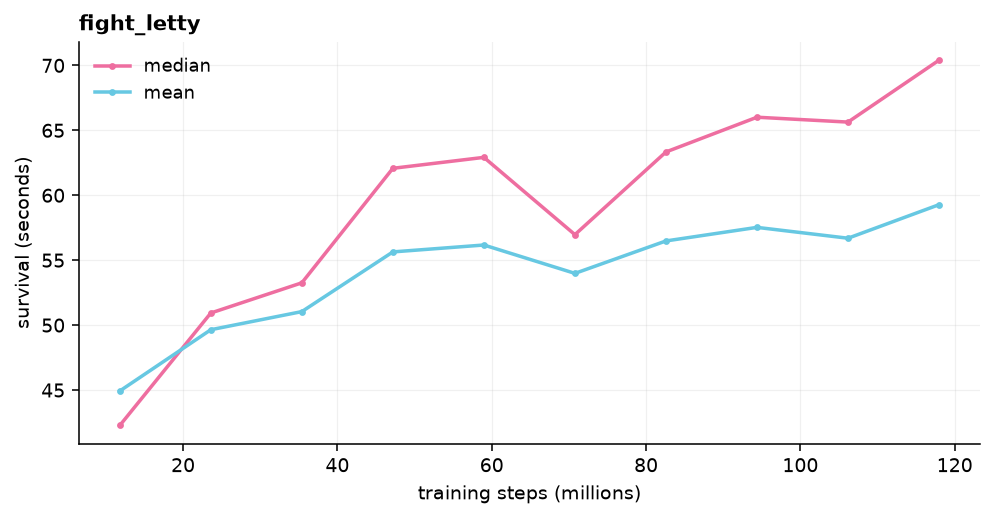
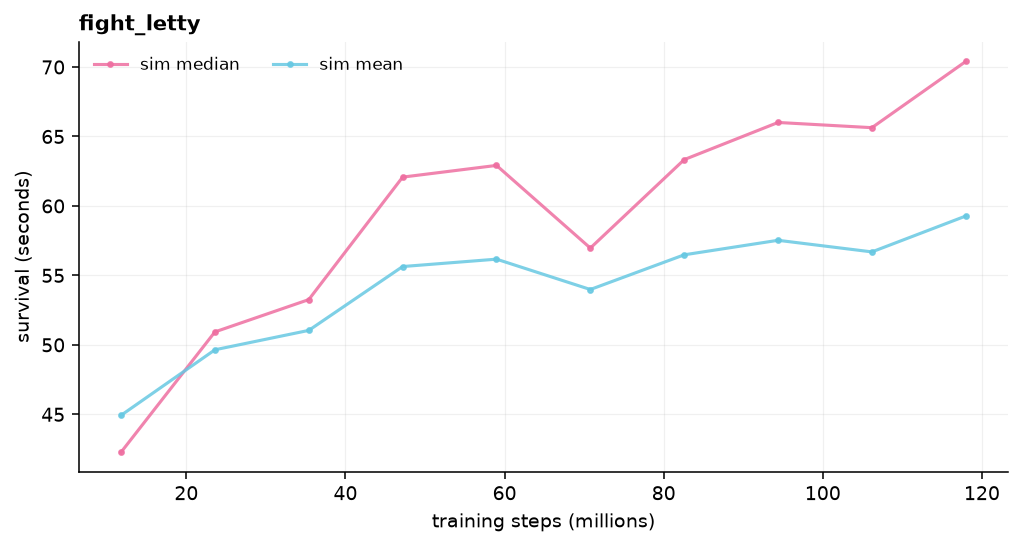
docs: experiment log - real transfer, not sim score; the PPO arc
Was plotting/quoting the sim survival (deliberately brutal, ~20-40s) as if it
were the real number. Each run has realtransfer.npy - the actual game survival
during training. Corrected:
  ppo_v27  ~223s real median   (works)
  ppo_v28  ~18s real median    (obs-norm killed it)
  ppo_v29  ~231s real median   (wash vs v27)
So v29 is not "dies at S1 boss" - that was best.pt, the overfit checkpoint.
Every domain-randomized run plateaus ~"into Stage 2".

- plot_run.py overlays realtransfer.npy (scatter + binned median) on the sim
  curves - the gap between them is the point
- experiment-log.md: added "The PPO arc" narrative (v12 -> v29, what each
  changed and what we realised), corrected the tables
- dead-ends.md / index.md: softened the "base regression" to match

Claude-Session: https://claude.ai/code/session_01HvK66xWtekmqmw4fENNeN8

diff --git a/tools/plot_run.py b/tools/plot_run.py
@@ -53,16 +53,32 @@ def main():
     import matplotlib.pyplot as plt
 
     x = h[:, sch["x"]] / 1e6
-    fig, ax = plt.subplots(figsize=(7.2, 3.8), dpi=140)
+    fig, ax = plt.subplots(figsize=(7.4, 4.0), dpi=140)
     colors = ["#ee6ea0", "#67c8e2", "#8b94a1"]
     for i, (col, lbl) in enumerate(sch["series"]):
-        ax.plot(x, h[:, col], color=colors[i % len(colors)], lw=1.8,
-                label=lbl, marker="o", ms=2.5)
+        ax.plot(x, h[:, col], color=colors[i % len(colors)], lw=1.6, alpha=.85,
+                label=f"sim {lbl}", marker="o", ms=2.5)
+
+    # real-game transfer, if it was logged: [wall, step, survival_s, score, flag]
+    rt_path = run / "realtransfer.npy"
+    if rt_path.exists():
+        rt = np.load(rt_path)
+        rs, rv = rt[:, 1] / 1e6, rt[:, 2]
+        ax.scatter(rs, rv, s=9, color="#c9a227", alpha=.35, lw=0,
+                   label="real (each eval)", zorder=2)
+        # binned median
+        edges = np.linspace(rs.min(), rs.max(), 12)
+        mids = 0.5 * (edges[:-1] + edges[1:])
+        med = [np.median(rv[(rs >= a) & (rs < b)]) if ((rs >= a) & (rs < b)).any()
+               else np.nan for a, b in zip(edges[:-1], edges[1:])]
+        ax.plot(mids, med, color="#c9a227", lw=2.2, marker="s", ms=3.5,
+                label="real (binned median)", zorder=3)
+
     ax.set_xlabel("training steps (millions)")
     ax.set_ylabel("survival (seconds)")
     ax.set_title(name, loc="left", fontsize=11, fontweight="bold")
     ax.grid(True, alpha=.18, lw=.6)
-    ax.legend(frameon=False, fontsize=9)
+    ax.legend(frameon=False, fontsize=8.5, ncol=2)
     ax.spines[["top", "right"]].set_visible(False)
     fig.tight_layout()
 

diff --git a/docs/experiment-log.md b/docs/experiment-log.md
@@ -3,56 +3,123 @@
 The dated, quantitative companion to [Dead ends & lessons](dead-ends.md). Every
 training run: what changed, what the sim curve did, what transferred, verdict.
 
+!!! warning "Sim score is not real transfer"
+    The procedural sim is deliberately brutal (domain randomization), so its
+    survival numbers run ~20–40 s while the *same policy* survives ~200–300 s on
+    the real game. Always read the **real** line, not the sim line. `ppo_v26` got
+    *worse* on the real game while its sim median rose.
+
 !!! note "How this is kept"
     After a run, `python tools/plot_run.py runs_sim/<name>` writes the curve to
-    `docs/assets/curves/<name>.png` and copies `history.npy` to `runs_meta/`
-    (so the plot is reproducible from the repo — `.pt` weights stay out of git).
-    Then add a row below. The *what changed* and *verdict* columns are written
-    by hand.
+    `docs/assets/curves/<name>.png` (sim series + the `realtransfer.npy` overlay)
+    and copies `history.npy` to `runs_meta/`. `.pt` weights stay out of git.
+    The *what changed* / *verdict* columns are written by hand.
 
 ## Current best
 
 | Metric | Value | From |
 |---|---|---|
-| Real playthrough | `~470 s, stages 1–3` | `ppo_v12` (retired 212-d obs) |
-| Real Letty, dodge-only | `6/6 clears` | procedural-sim baseline (`snap_0092M`) |
-| Real Letty, dodge-only | `3/6 clears` | `fight_letty` (recorded) |
-| Current-obs general policy | `dies at S1 boss` | best of v27 / v29 |
+| Real playthrough (peak) | **~470 s**, stages 1–3 | `ppo_v12` — retired 212-d obs |
+| Real transfer, current obs | **~225 s** median (stages 1–2) | `ppo_v27` / `ppo_v29` |
+| Recorded-boss transfer | 150–190 s on real Letty | `fight_letty` (but baseline clears Letty 6/6) |
 
-The headline number (`ppo_v12`) has not been reproduced on the current 236-d
-observation. See [the base-policy regression](dead-ends.md#the-base-policy-regression-open).
+The current 236-d observation has **not** reproduced `ppo_v12`'s reach. Every
+domain-randomized run plateaus around "clears stage 1, dies in stage 2."
+
+## The PPO arc
+
+Read top-to-bottom.
+
+### v12 and the 212-d era — peak
+
+`ppo_v12` reached **~470 s real, stages 1–3** at ~200 M steps on a 212-d
+observation. `ppo_v22` (an early re-run) hit **~368 s at only 82 M steps**. This
+is the bar everything since has failed to clear. The 212-d obs was later widened
+to 236-d (new enemy/item blocks, focus-aware escape) and `ppo_v12` no longer
+loads against the current code.
+
+### v23–v25 — trying to teach shooting, the policy games it
+
+Added a front-only shot model, aimed enemy bursts, and a top-down "spam phase"
+to push the agent to engage enemies. Over 1000 M steps `ppo_v25` **regressed to
+~159 s**. The kill and power rewards were too weak relative to the survival
+bonus, so the optimal policy was to *stop shooting and just dodge* — which is
+fine in the sim and useless for a real run where you need power.
+
+> **Realisation.** You cannot bolt "shoot enemies" onto a survival objective with
+> a small reward term. The agent will find the survive-only local optimum.
+
+### v26 — stronger engagement rewards, overfits
+
+Cranked the enemy-damage reward (`0.10 → 0.35`), item reward (`0.30 → 0.60`),
+added a power-standing bonus, widened the enemy hit radius, capped episodes at
+240 s, split the death signal by cause. On a **fixed** sim stage it learned to
+engage — and transfer got *worse* as the sim score climbed. `best.pt`, ranked by
+sim score, was the most overfit checkpoint in the run.
+
+> **Realisation.** A fixed sim stage is a memorisation target. Rank checkpoints
+> by transfer tests, not sim score.
+
+### v27 — domain-randomization rewrite, recovers
+
+Threw out the hand-tuned stage. Patterns are now procedurally generated per
+episode with heavy randomization of density, speed, aim, and emitter layout.
+Real transfer came back to **~223 s median** (41–505 s range). The last
+current-obs run that clearly worked.
+
+### v28 — observation normalization, catastrophic
+
+Standardized each obs feature to zero-mean/unit-variance using sim statistics.
+Features that are constant in the sim (empty item slots, walls) got divided by a
+near-zero std, folding their weights up ~`1e4×`. On real obs the network
+exploded. Real transfer **collapsed to 18 s median** (13–42 s) despite a
+perfectly healthy sim curve. Reverted (`65a4d78`).
+
+### v29 — v27 plus a batch of refinements, marginal
+
+v27 randomization + AABB collision (was circular) + a bottom-camp penalty +
+focus-aware escape scalars + reward normalization + LR annealing, **no** obs
+normalization. Real transfer **~231 s median** (68–645 s), flat after ~100 M
+steps. Basically a wash versus v27 — the plateau is the sim's, not the run's.
+Snapshots saved every 40 M for transfer-testing (`snap_*.pt`); `best.pt` still
+underperforms mid-training snapshots, per the v26 lesson.
 
 ## Runs
 
-Reverse-chronological. "sim" = greedy median survival at the end of training;
-"real" = survival on the actual game.
-
-| Run | Date | What changed | Sim | Real | Verdict |
-|---|---|---|---|---|---|
-| `fight_letty` | 2026-08-31 | recorded-Letty FightSim + re-aiming + per-bullet hitboxes + lethal enemy bodies; from scratch | 70 s median (capped view) | 150–190 s on real Letty, but the plain baseline clears it 6/6 | **inconclusive** — Letty is too easy to show a benefit |
-| `ppo_v29` | 2026-08-30 | v27 randomization + AABB collision + bottom-camp penalty + focus-aware escape + reward-norm + LR anneal; **no** obs-norm | ~35 s median | dies at S1 boss (normal play) | regressed vs v12; snapshots every 40 M for transfer-testing |
-| `ppo_v28` | 2026-08-29 | added obs normalization | healthy curve | **15–40 s** real | **killed** — sim-constant features got `1e4×` weights ([why](dead-ends.md#observation-normalization-v28-abandoned)) |
-| `ppo_v27` | 2026-08-28 | domain-randomization rewrite | ~39 s median | 200–500 s real (per notes) | transferred well; the last current-obs run that did |
-| `ppo_v26` | — | fixed sim stage, stronger enemy/item rewards | rising | got **worse** as sim rose | overfit — `best.pt` is the most overfit checkpoint |
-| `ppo_v25` | — | front-only shot + aimed enemy bursts + top-down spam phase, 1000 M steps | high | **159 s** real (down from 470) | regressed — reward changes made it stop engaging |
-| `ppo_v22` | — | (212-d era) | 88 s median | **368 s real**, stages 1–3, at only 82 M steps | strong; preserved |
-| `ppo_v12` | — | (212-d era) | — | **470 s real**, stages 1–3 | best real result to date; obs since retired |
-
-### fight_letty
-
-![fight_letty survival curve](assets/curves/fight_letty.png)
-
-Climbed the whole run (42 → 70 s median), never plateaued. The in-sim eval is
-capped at 83 s so full clears are invisible here — the real signal is
-`eval_boss.py`.
+| Run | Date | What changed | Real transfer | Verdict |
+|---|---|---|---|---|
+| `fight_letty` | 2026-08-31 | recorded-Letty FightSim + re-aiming + real hitboxes + lethal enemy bodies; from scratch | 150–190 s on real Letty | inconclusive — Letty too easy (baseline 6/6) |
+| `ppo_v29` | 2026-08-30 | v27 + AABB collision + focus-aware escape + reward-norm + LR anneal | ~231 s median | wash vs v27 |
+| `ppo_v28` | 2026-08-29 | + obs normalization | ~18 s median | **killed** |
+| `ppo_v27` | 2026-08-28 | domain-randomization rewrite | ~223 s median | works; the current baseline |
+| `ppo_v26` | — | stronger enemy/item rewards, fixed sim stage | worse as sim rose | overfit |
+| `ppo_v25` | — | front-only shot + aimed bursts + spam phase, 1000 M | ~159 s | regressed — stopped engaging |
+| `ppo_v22` | — | early 236-d re-run | ~368 s, 82 M steps | strong; preserved |
+| `ppo_v12` | — | 212-d era | **~470 s**, stages 1–3 | best to date; obs retired |
 
 ### ppo_v27
 
 ![ppo_v27 survival curve](assets/curves/ppo_v27.png)
 
+### ppo_v28 — obs normalization
+
+![ppo_v28 survival curve](assets/curves/ppo_v28.png)
+
+The sim curve is fine; real transfer sits at the floor the whole run.
+
 ### ppo_v29
 
 ![ppo_v29 survival curve](assets/curves/ppo_v29.png)
+
+The gap between the sim lines (~20–35 s) and the real line (~230 s) is the whole
+point of this chapter.
+
+### fight_letty
+
+![fight_letty survival curve](assets/curves/fight_letty.png)
+
+No `realtransfer.npy` for this run — the real number is one `eval_boss.py` pass:
+150–190 s on real Letty, 3/6 full clears.
 
 ## Sim throughput
 

diff --git a/docs/dead-ends.md b/docs/dead-ends.md
@@ -66,13 +66,19 @@ there was nothing left to fine-tune.
 
 ## The base-policy regression — *open*
 
-The strong result in the record — `ppo_v12`, ~470 s, stages 1–3 — is on a 212-d
-observation that no longer exists. Every current-obs run (v27, v29) dies at the
-Stage 1 boss in normal play, and pure-dodge dies in the Stage 1 *stage portion*
-at 33 s. The recorder / FightSim / re-aim work this session sits on a foundation
-that is below where the project was months ago.
+`ppo_v12` reached ~470 s (stages 1–3) on a 212-d observation that no longer
+exists. The current 236-d runs (v27, v29) transfer to **~225 s median** — they
+clear Stage 1 and die somewhere in Stage 2. A regression from v12, though not
+the "dies at Stage 1 boss" I first reported (that was `best.pt`, which the
+[v26 lesson](#v26-stronger-engagement-rewards-overfits) says is the wrong
+checkpoint to pick).
 
-> **Lesson (provisional).** The sim teaches boss-dodging. A 1cc also needs
-> stage-portion enemy management and boss damage-routing, and recording bosses
-> fixes neither. The likely path: record bosses for dodging *and* add synthetic
-> HP phasing so the policy learns to shoot.
+Every domain-randomized run plateaus at roughly the same place. Pure-dodge, with
+no shooting at all, dies in the Stage 1 *stage portion* at ~33 s — the
+procedural sim never taught enemy management.
+
+> **Lesson (provisional).** The sim teaches boss-dodging and tops out around
+> "into Stage 2." A 1cc also needs stage-portion enemy management and boss
+> damage-routing, and recording bosses fixes neither. The path being taken:
+> record bosses for dodging *and* add synthetic HP phasing so the policy learns
+> to shoot.

diff --git a/docs/index.md b/docs/index.md
@@ -45,9 +45,9 @@ touch-up tool, not the main training vehicle.
 
 | Milestone | Result | Notes |
 |---|---|---|
-| Best real playthrough | `~470 s, stages 1–3` | `ppo_v12` — on a now-retired 212-d observation |
+| Best real playthrough (peak) | `~470 s, stages 1–3` | `ppo_v12` — on a now-retired 212-d observation |
+| Current-obs transfer | `~225 s median` | `ppo_v27` / `ppo_v29` — clears Stage 1, dies in Stage 2 |
 | Recorded-boss transfer | `150–190 s` | `fight_letty`, trained only on replayed Letty, dodges real Letty |
-| Current-obs general policy | `dies at S1 boss` | the 236-d runs have not reproduced v12's reach |
 
 !!! note "Constraints"
     The clear runs on vanilla `th07.exe` with the hook in observe-only mode.
